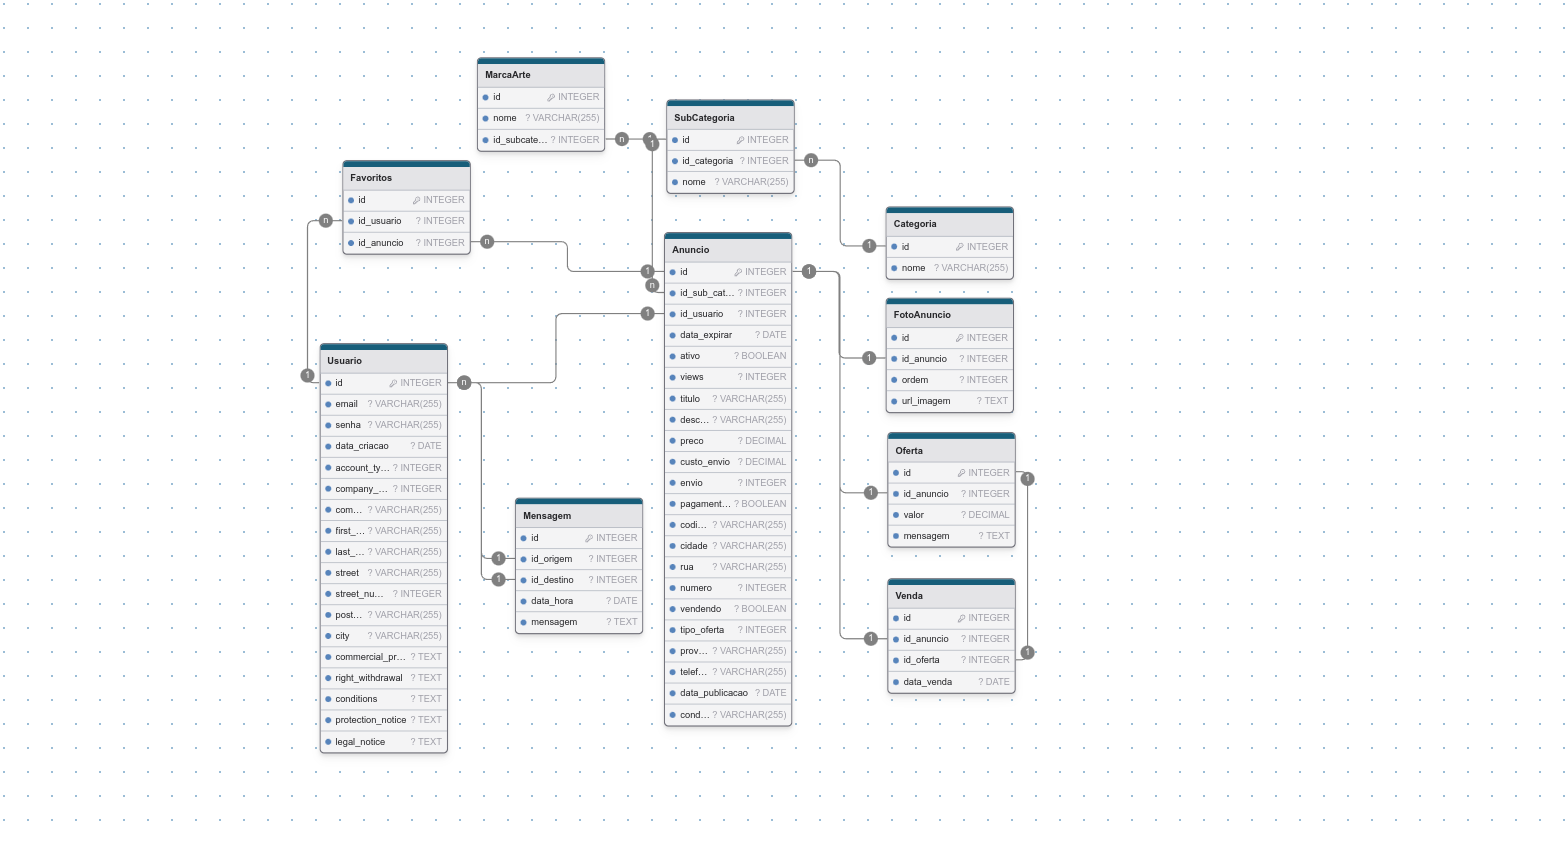
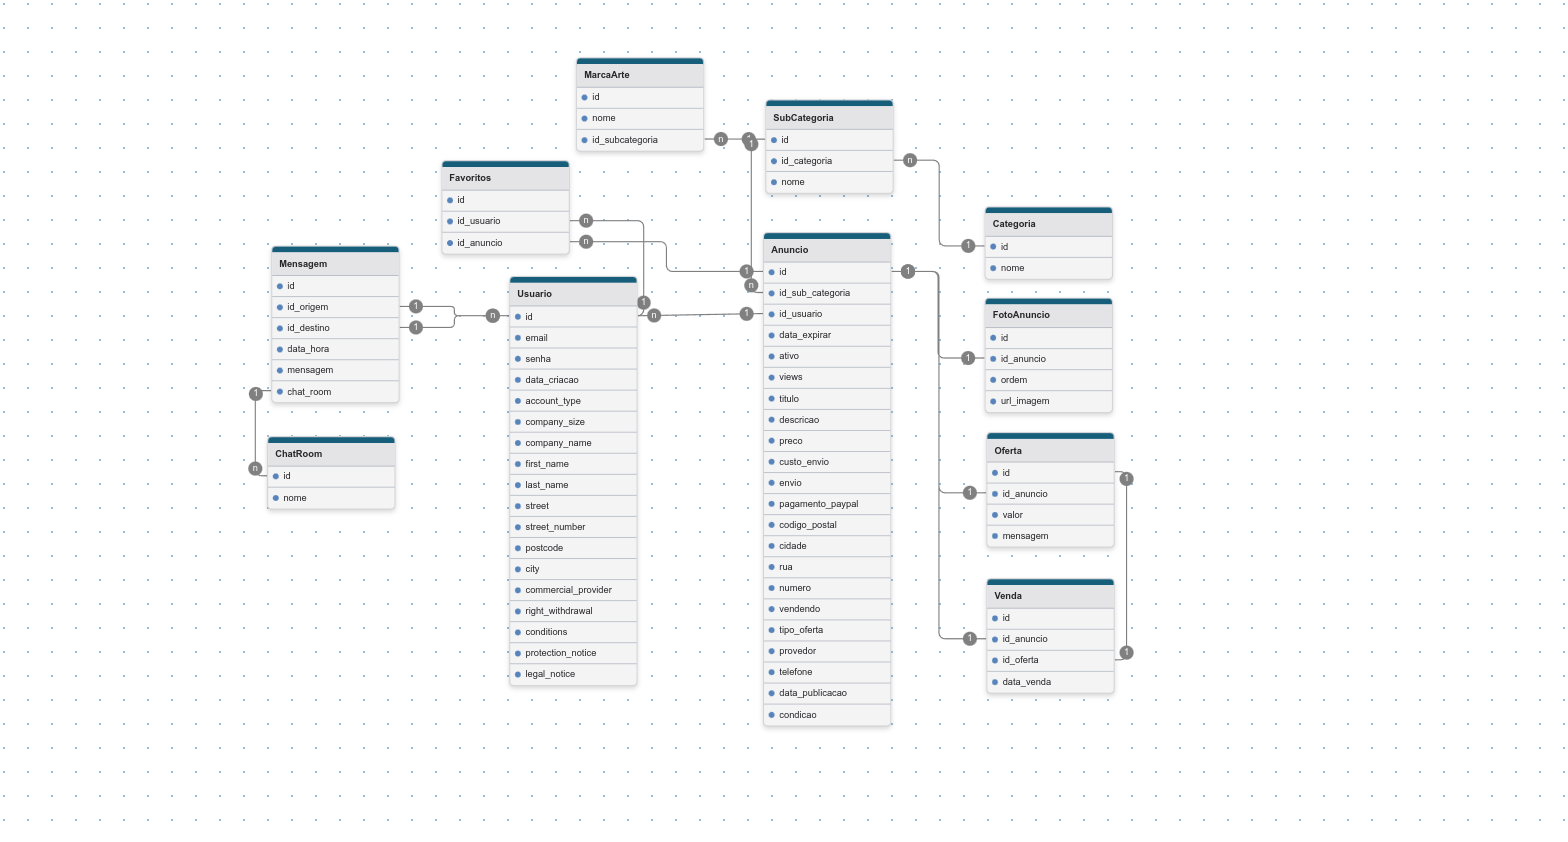
:books: docs: Add docs chat mensagens
Atualizado tambem o diagrama do banco de dados.

By: Pedro
Refs: #114

Changed region(s): [[0.1562, 0.0618, 0.7188, 0.8955], [0.5625, 0.1853, 0.5938, 0.2162]]

diff --git a/docs/endpoints.MD b/docs/endpoints.MD
@@ -539,3 +539,17 @@ POST
     "confirm_password": "newpassword123"
 }
 ```
+
+### `ws/chat/<room_name>/?token=pkamfkamsfkm`
+
+#### (WebSocket) Chat de mensagens
+
+Url para os chats dos usuários. É passado o token do usuário na url.
+Send
+```json
+{
+    "remetente_id": 1,
+    "destinatario_id": 2,
+    "mensagem": "texto qualquer"
+}
+```
